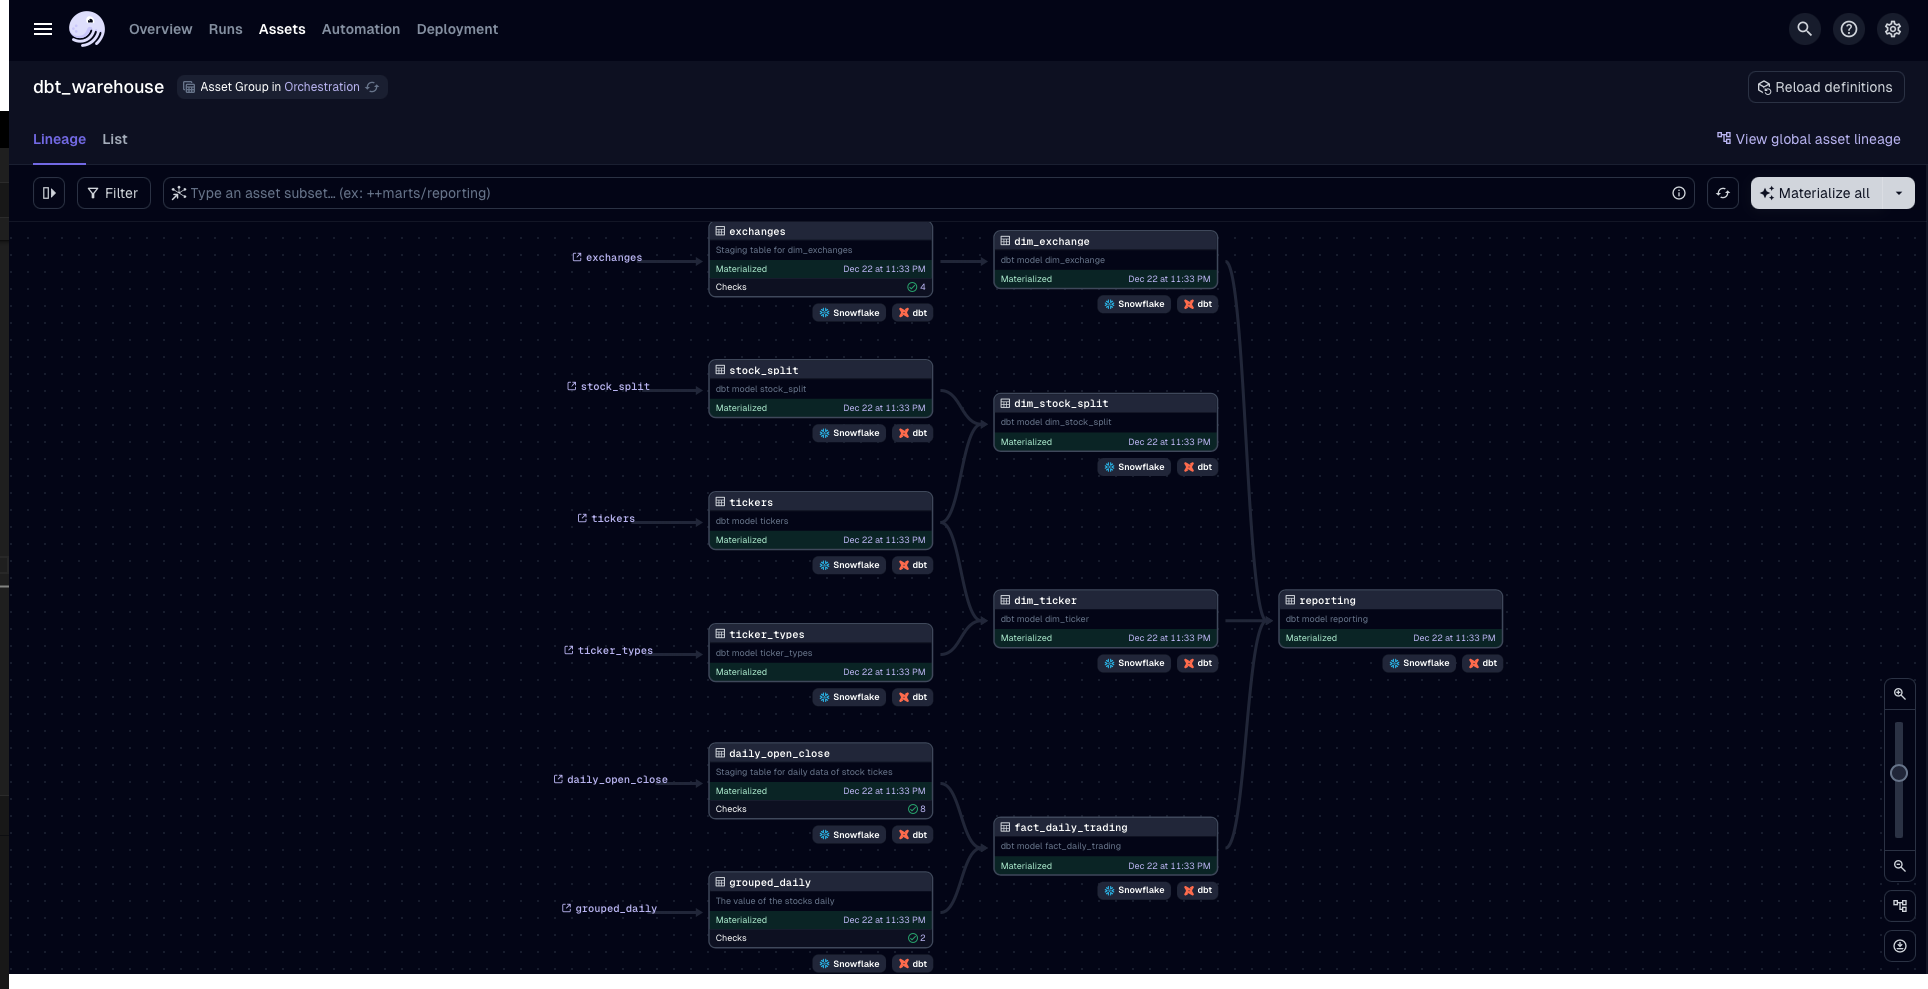
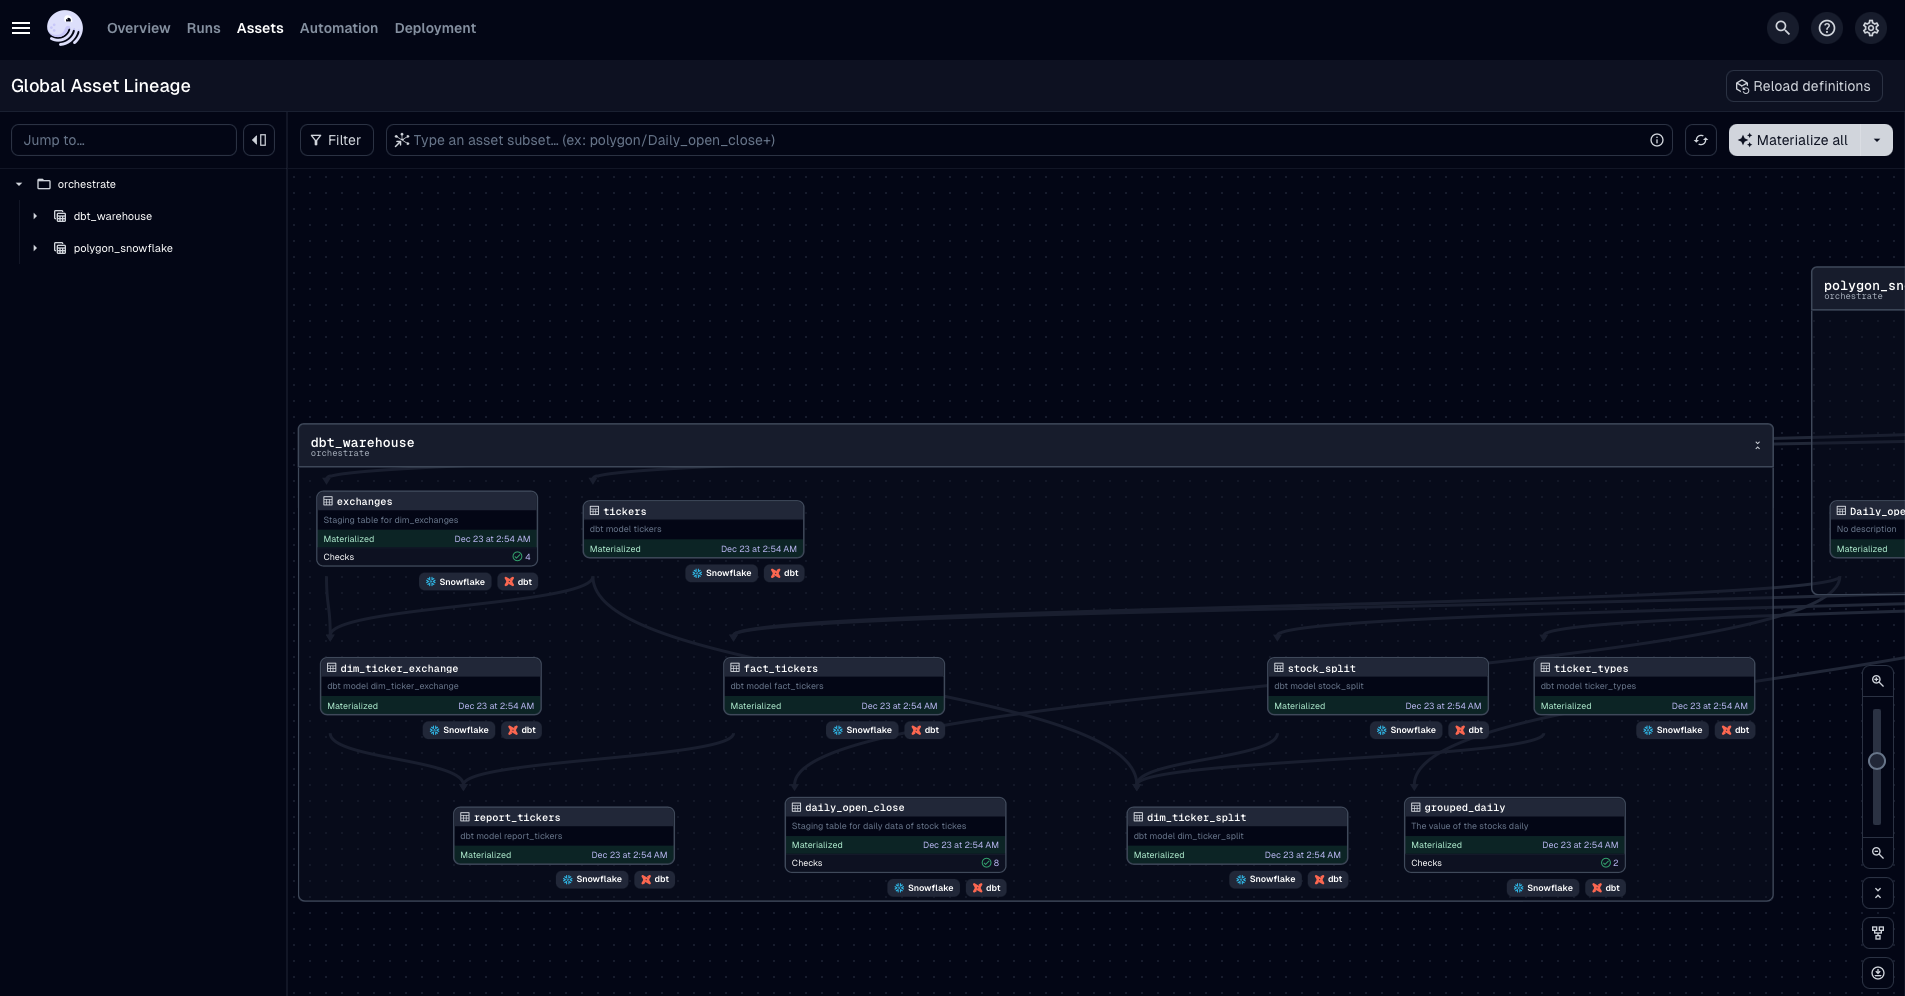
added dagster screenshot and modified profiles to env_var

diff --git a/Orchestration/assets/airbyte/airbyte.py b/Orchestration/assets/airbyte/airbyte.py
@@ -1,0 +1,17 @@
+from dagster import EnvVar, AutoMaterializePolicy, FreshnessPolicy
+from dagster_airbyte import AirbyteResource, load_assets_from_airbyte_instance
+
+airbyte_resource = AirbyteResource(
+    host=EnvVar("airbyte_host"),
+    port="8000",
+    username="airbyte",
+    password=EnvVar("airbyte_password"),
+)
+
+# auto materialize policy issue: https://github.com/dagster-io/dagster/issues/18266
+airbyte_assets = load_assets_from_airbyte_instance(
+    airbyte_resource,
+    key_prefix="polygon",
+    connection_to_freshness_policy_fn=lambda _: FreshnessPolicy(maximum_lag_minutes=5),
+    connection_to_auto_materialize_policy_fn=lambda _: AutoMaterializePolicy.eager(),
+)

diff --git a/Orchestration/README.md b/Orchestration/README.md
@@ -18,4 +18,5 @@ In this pipeline, Dagster Cloud utilizes a declarative approach for asset materi
 ![Image](/Docs/Polygon_Websocket_Called.jpg)	
 
 # Screenshots of Dagster Orchestration of Batch-Processing Pipeline
+![Image](/Docs/orchestration_airbyte_lineage.png)
 ![Image](/Docs/orchestration_dbt_lineage.png)
